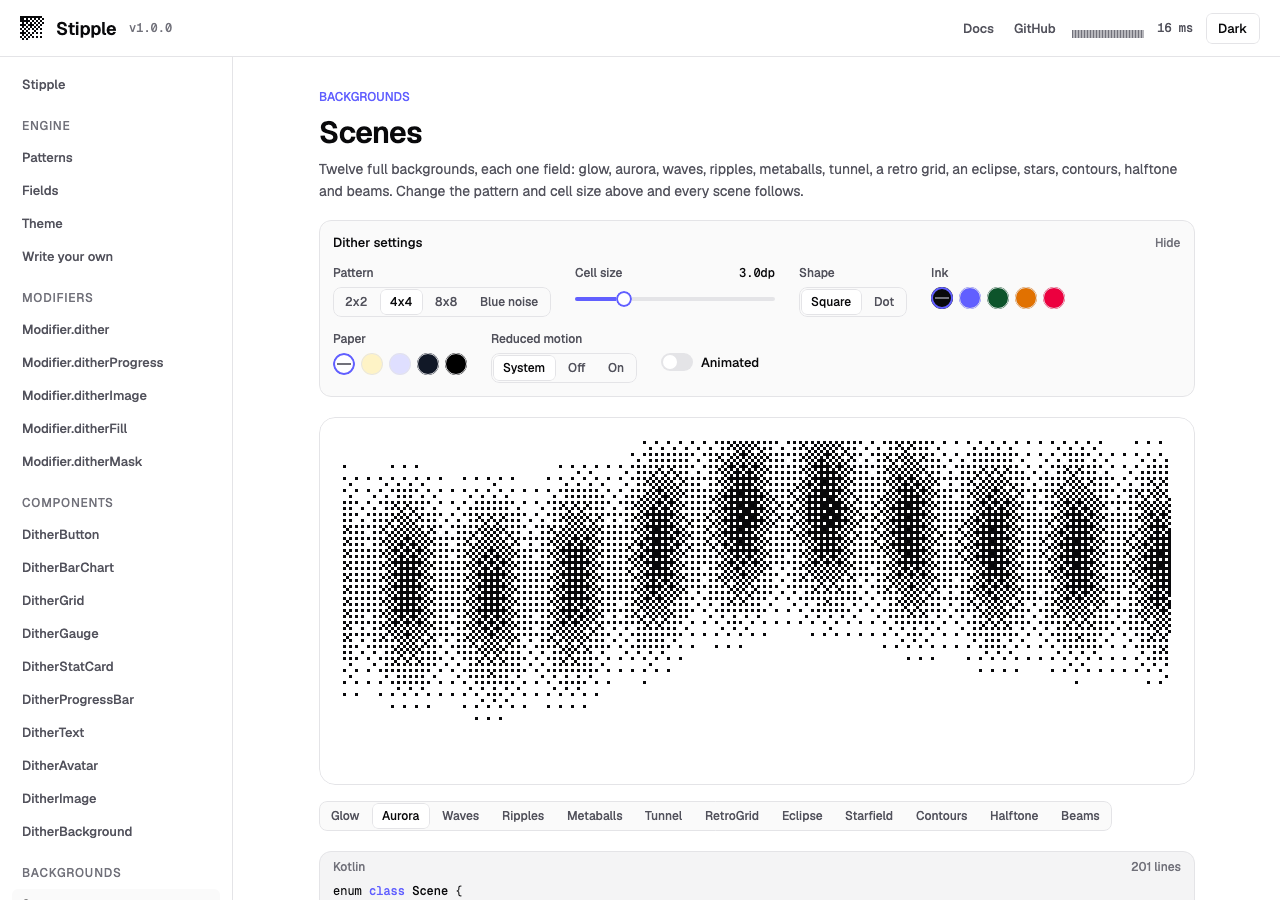
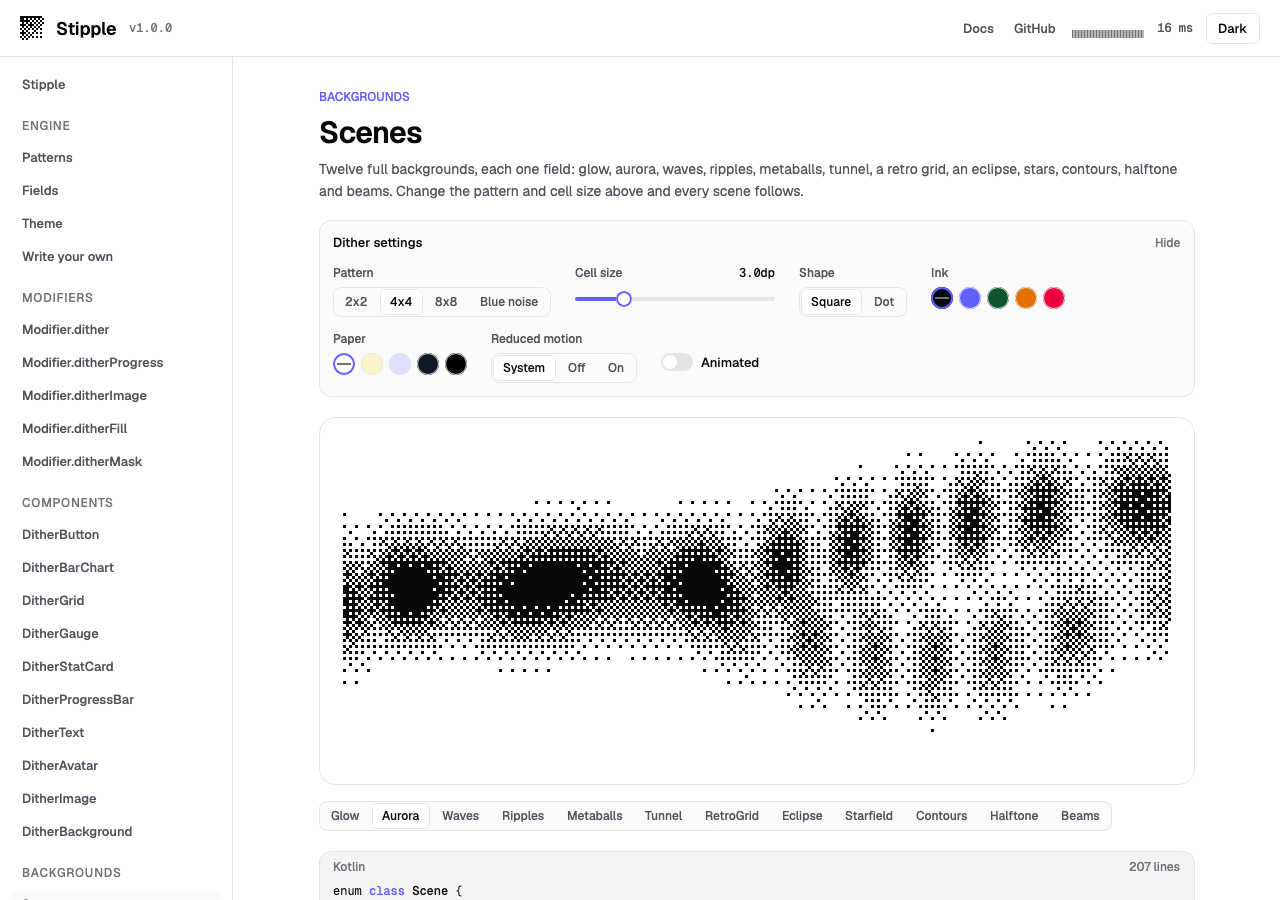
Add charts and image compare examples

Changed region(s): [[0.25, 0.4667, 0.9375, 0.8089], [0.875, 0.9333, 0.9062, 0.9644]]

diff --git a/samples/gallery/src/commonMain/kotlin/com/jantursky/stipple/samples/gallery/examples/ChartsExample.kt b/samples/gallery/src/commonMain/kotlin/com/jantursky/stipple/samples/gallery/examples/ChartsExample.kt
@@ -1,0 +1,119 @@
+package com.jantursky.stipple.samples.gallery.examples
+
+import androidx.compose.foundation.layout.Box
+import androidx.compose.foundation.layout.aspectRatio
+import androidx.compose.foundation.layout.fillMaxWidth
+import androidx.compose.foundation.layout.height
+import androidx.compose.runtime.Composable
+import androidx.compose.ui.Modifier
+import androidx.compose.ui.unit.dp
+import com.jantursky.stipple.DitherField
+import com.jantursky.stipple.DitherPattern
+import com.jantursky.stipple.StippleTheme
+import com.jantursky.stipple.dither
+import kotlin.math.PI
+import kotlin.math.abs
+import kotlin.math.atan2
+import kotlin.math.floor
+import kotlin.math.hypot
+import kotlin.math.sin
+
+enum class ChartKind { Area, Heatmap, Donut, Uptime }
+
+// A chart is a field too: the data goes into the function, the pattern turns the tones into texture. Tones above
+// the highest threshold of the pattern come out solid, so 1 gives a solid ink block.
+private fun hash(
+    x: Int,
+    y: Int,
+): Float {
+    var h = x * 374761393 + y * 668265263
+    h = (h xor (h ushr 13)) * 1274126177
+    return ((h xor (h ushr 16)) and 0xFFFF) / 65535f
+}
+
+private fun ramp(
+    edge0: Float,
+    edge1: Float,
+    x: Float,
+): Float = ((x - edge0) / (edge1 - edge0)).coerceIn(0f, 1f)
+
+// The line is solid, the fill thins out the further it falls below the line.
+private val area =
+    DitherField { x, y, _, _ ->
+        val line = 0.5f - 0.22f * sin(x * 6f) - 0.18f * x
+        val below = y - line
+        when {
+            abs(below) < 0.012f -> 1f
+            below > 0f -> 0.75f * (1f - ramp(0f, 0.6f, below))
+            else -> 0f
+        }
+    }
+
+// Twenty weeks by seven days; the value of a day sets how dense its square is.
+private val heatmap =
+    DitherField { x, y, _, aspect ->
+        val columns = 24f
+        val rows = 7f
+        val gx = x * columns
+        val gy = y * rows
+        val inside = abs(gx - floor(gx) - 0.5f) < 0.42f && abs(gy - floor(gy) - 0.5f) < 0.42f
+        if (inside) 0.08f + 0.92f * hash(gx.toInt(), gy.toInt()) else 0f
+    }
+
+// Four slices, each with its own density, and a gap between them.
+private val donut =
+    DitherField { x, y, _, aspect ->
+        val dx = (x - 0.5f) * aspect
+        val dy = y - 0.5f
+        val r = hypot(dx, dy)
+        if (r < 0.28f || r > 0.46f) {
+            0f
+        } else {
+            val turn = (atan2(dy, dx) / (2f * PI.toFloat()) + 1.25f) % 1f
+            val edges = floatArrayOf(0.38f, 0.65f, 0.85f, 1f)
+            val tones = floatArrayOf(1f, 0.62f, 0.38f, 0.2f)
+            val slice = edges.indexOfFirst { turn < it }
+            val gap = edges.any { abs(turn - it) < 0.008f } || turn < 0.008f
+            if (gap) 0f else tones[slice]
+        }
+    }
+
+// Forty days: solid when up, lighter on a degraded day, empty on an outage.
+private val uptime =
+    DitherField { x, _, _, _ ->
+        val bars = 40f
+        val gx = x * bars
+        val day = gx.toInt()
+        if (gx - floor(gx) > 0.72f) {
+            0f
+        } else {
+            when {
+                day == 9 || day == 27 -> 0f
+                day == 17 || day == 31 || day == 32 -> 0.5f
+                else -> 1f
+            }
+        }
+    }
+
+@Composable
+fun ChartsExample(
+    kind: ChartKind,
+    theme: StippleTheme,
+    pattern: DitherPattern,
+) {
+    val look =
+        when (kind) {
+            ChartKind.Area -> Modifier.fillMaxWidth().height(200.dp)
+            ChartKind.Heatmap -> Modifier.fillMaxWidth().aspectRatio(24f / 7f)
+            ChartKind.Donut -> Modifier.fillMaxWidth().height(260.dp)
+            ChartKind.Uptime -> Modifier.fillMaxWidth().height(48.dp)
+        }
+    val field =
+        when (kind) {
+            ChartKind.Area -> area
+            ChartKind.Heatmap -> heatmap
+            ChartKind.Donut -> donut
+            ChartKind.Uptime -> uptime
+        }
+    Box(look.dither(field, pattern, theme))
+}

diff --git a/samples/gallery/src/commonMain/kotlin/com/jantursky/stipple/samples/gallery/examples/ImageCompareExample.kt b/samples/gallery/src/commonMain/kotlin/com/jantursky/stipple/samples/gallery/examples/ImageCompareExample.kt
@@ -1,0 +1,79 @@
+package com.jantursky.stipple.samples.gallery.examples
+
+import androidx.compose.foundation.background
+import androidx.compose.foundation.gestures.detectHorizontalDragGestures
+import androidx.compose.foundation.layout.Box
+import androidx.compose.foundation.layout.aspectRatio
+import androidx.compose.foundation.layout.fillMaxHeight
+import androidx.compose.foundation.layout.fillMaxWidth
+import androidx.compose.foundation.layout.offset
+import androidx.compose.foundation.layout.width
+import androidx.compose.runtime.Composable
+import androidx.compose.runtime.getValue
+import androidx.compose.runtime.mutableFloatStateOf
+import androidx.compose.runtime.remember
+import androidx.compose.runtime.setValue
+import androidx.compose.ui.Modifier
+import androidx.compose.ui.draw.clip
+import androidx.compose.ui.draw.clipToBounds
+import androidx.compose.ui.geometry.Rect
+import androidx.compose.ui.graphics.Outline
+import androidx.compose.ui.graphics.Shape
+import androidx.compose.ui.input.pointer.pointerInput
+import androidx.compose.ui.layout.onSizeChanged
+import androidx.compose.ui.platform.LocalDensity
+import androidx.compose.ui.unit.dp
+import com.jantursky.stipple.DitherAlgorithm
+import com.jantursky.stipple.DitherPattern
+import com.jantursky.stipple.StippleTheme
+import com.jantursky.stipple.ditherImage
+import com.jantursky.stipple.samples.gallery.Landscape
+
+// A before and after slider: the picture underneath is untouched, the same picture on top is dithered and clipped
+// to the left of the handle. Drag anywhere on it.
+@Composable
+fun ImageCompareExample(
+    theme: StippleTheme,
+    pattern: DitherPattern,
+    algorithm: DitherAlgorithm,
+) {
+    var split by remember { mutableFloatStateOf(0.5f) }
+    var width by remember { mutableFloatStateOf(1f) }
+    val density = LocalDensity.current
+    val left =
+        object : Shape {
+            override fun createOutline(
+                size: androidx.compose.ui.geometry.Size,
+                layoutDirection: androidx.compose.ui.unit.LayoutDirection,
+                density: androidx.compose.ui.unit.Density,
+            ) = Outline.Rectangle(Rect(0f, 0f, size.width * split, size.height))
+        }
+    Box(
+        Modifier
+            .fillMaxWidth()
+            .aspectRatio(16f / 9f)
+            .clipToBounds()
+            .onSizeChanged { width = it.width.toFloat() }
+            .pointerInput(Unit) {
+                detectHorizontalDragGestures(
+                    onDragStart = { split = (it.x / width).coerceIn(0f, 1f) },
+                ) { change, _ -> split = (change.position.x / width).coerceIn(0f, 1f) }
+            },
+    ) {
+        Landscape(Modifier.fillMaxWidth().fillMaxHeight())
+        Landscape(
+            Modifier
+                .fillMaxWidth()
+                .fillMaxHeight()
+                .clip(left)
+                .ditherImage(pattern, theme, algorithm, key = "compare"),
+        )
+        Box(
+            Modifier
+                .offset(x = with(density) { (width * split).toDp() } - 1.dp)
+                .width(2.dp)
+                .fillMaxHeight()
+                .background(theme.ink),
+        )
+    }
+}

diff --git a/samples/gallery/src/commonMain/kotlin/com/jantursky/stipple/samples/gallery/Catalog.kt b/samples/gallery/src/commonMain/kotlin/com/jantursky/stipple/samples/gallery/Catalog.kt
@@ -24,6 +24,8 @@ import com.jantursky.stipple.samples.gallery.examples.AvatarExample
 import com.jantursky.stipple.samples.gallery.examples.BackgroundExample
 import com.jantursky.stipple.samples.gallery.examples.BarChartExample
 import com.jantursky.stipple.samples.gallery.examples.ButtonExample
+import com.jantursky.stipple.samples.gallery.examples.ChartKind
+import com.jantursky.stipple.samples.gallery.examples.ChartsExample
 import com.jantursky.stipple.samples.gallery.examples.CustomFieldExample
 import com.jantursky.stipple.samples.gallery.examples.CustomKind
 import com.jantursky.stipple.samples.gallery.examples.DitherModifierExample
@@ -32,6 +34,7 @@ import com.jantursky.stipple.samples.gallery.examples.FieldsExample
 import com.jantursky.stipple.samples.gallery.examples.FillExample
 import com.jantursky.stipple.samples.gallery.examples.GaugeExample
 import com.jantursky.stipple.samples.gallery.examples.GridExample
+import com.jantursky.stipple.samples.gallery.examples.ImageCompareExample
 import com.jantursky.stipple.samples.gallery.examples.ImageExample
 import com.jantursky.stipple.samples.gallery.examples.ImageModifierExample
 import com.jantursky.stipple.samples.gallery.examples.InterfaceExample
@@ -356,6 +359,30 @@ val Catalog: List<Page> =
                 controls = { Segmented(InterfaceKind.entries, kind, { kind = it }, { it.name }) },
             ) {
                 InterfaceExample(kind, g.theme, g.pattern, g.animated)
+            }
+        },
+        Page(
+            "charts",
+            Group.Interface,
+            "More charts",
+            "An area chart, a calendar heatmap, a donut and an uptime row. The data sits inside the field; the pattern makes the texture, and a tone of 1 comes out as a solid block.",
+            listOf("ChartsExample"),
+        ) { g ->
+            var kind by remember { mutableStateOf(ChartKind.Area) }
+            Demo(g, minHeight = 240, controls = { Segmented(ChartKind.entries, kind, { kind = it }, { it.name }) }) {
+                ChartsExample(kind, g.theme, g.pattern)
+            }
+        },
+        Page(
+            "image-compare",
+            Group.Interface,
+            "Image compare",
+            "A before and after slider. The picture underneath is untouched; the same picture on top is dithered and clipped to the left of the handle. Drag on it.",
+            listOf("ImageCompareExample"),
+        ) { g ->
+            var algorithm by remember { mutableStateOf(DitherAlgorithm.Atkinson) }
+            Demo(g, controls = { Segmented(DitherAlgorithm.entries, algorithm, { algorithm = it }, { it.name }) }) {
+                ImageCompareExample(g.theme, g.pattern, algorithm)
             }
         },
     )
